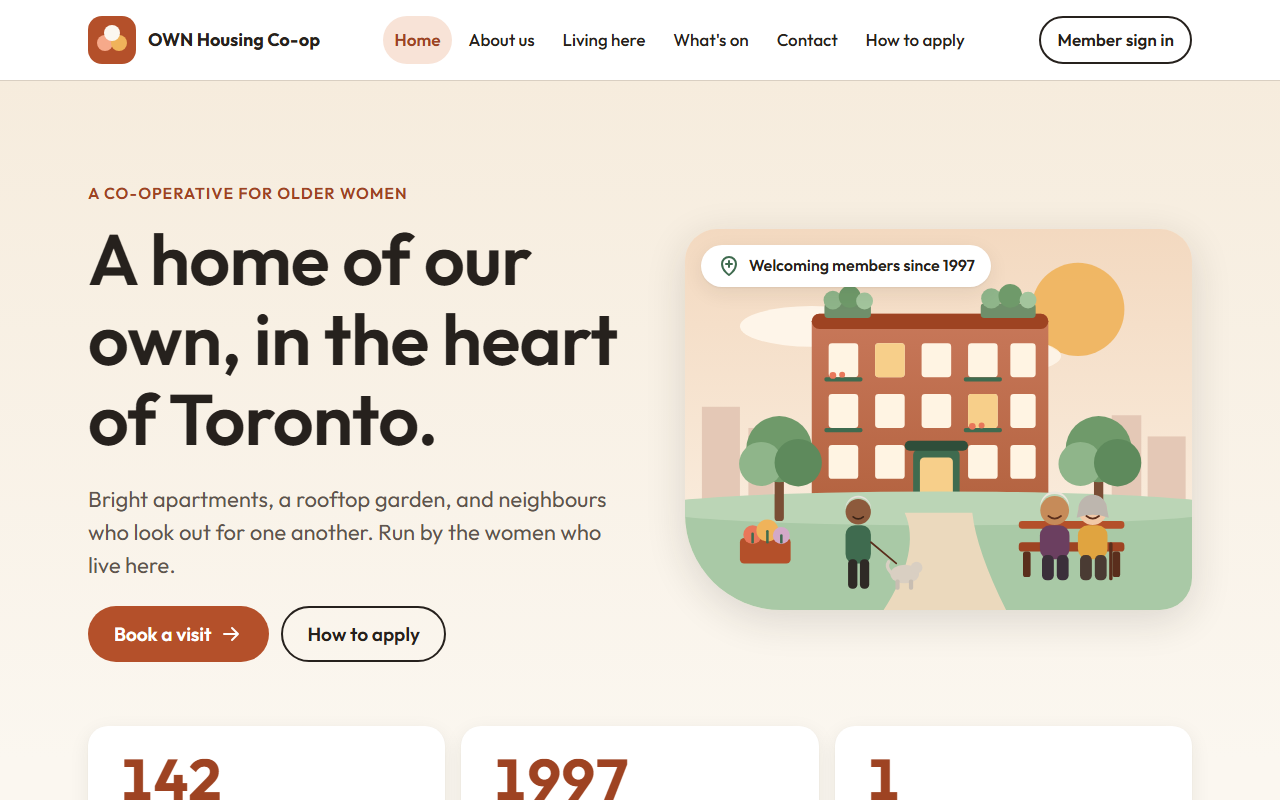
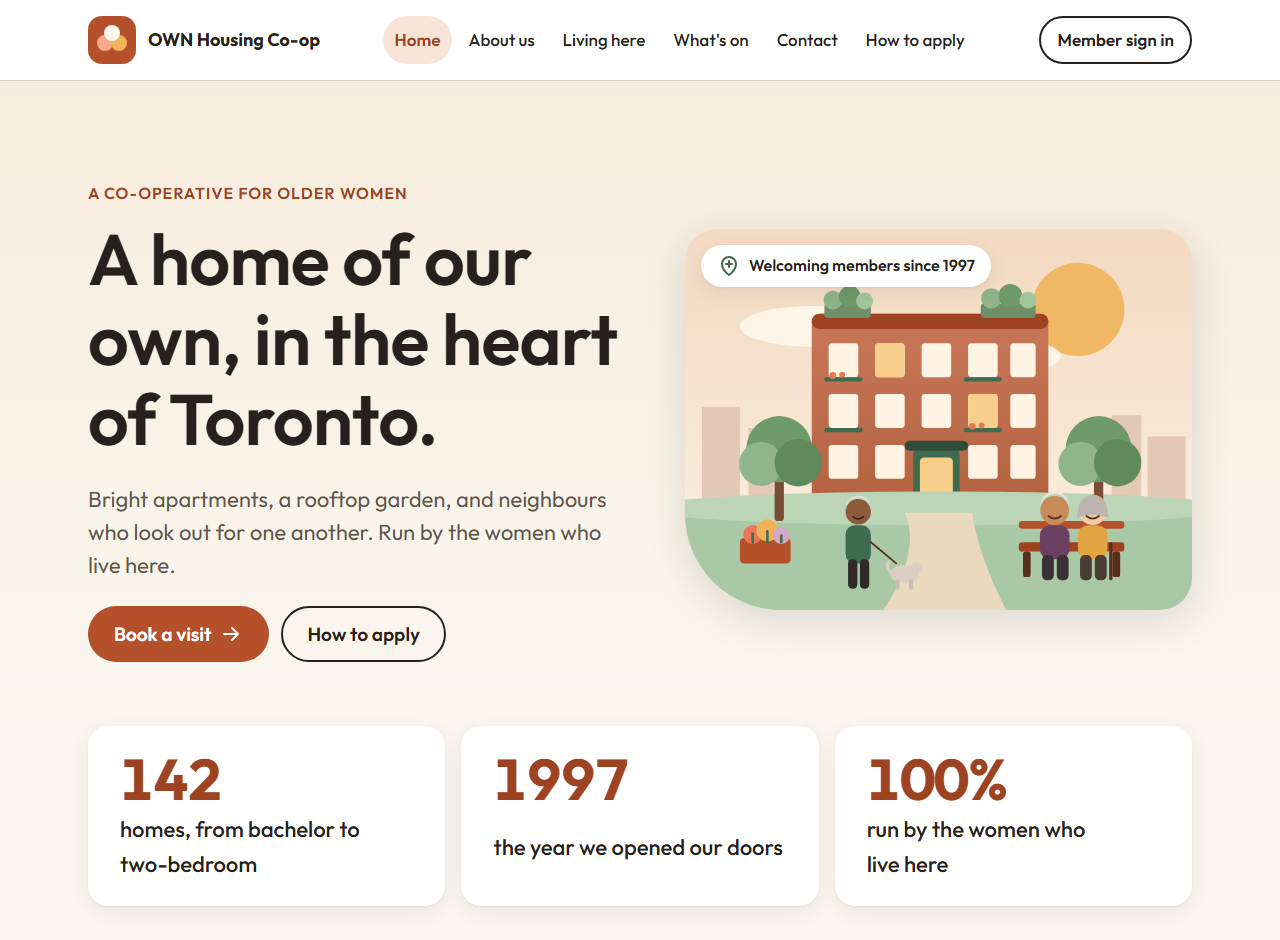
Frame the home page stills so the stat cards show whole
Let capture-mocks.py take a per-shot height for the computer capture and
capture public-landing at 1280x940 so the header, hero and full stat
cards with labels fit.

diff --git a/tools/video-build/capture-mocks.py b/tools/video-build/capture-mocks.py
@@ -2,7 +2,8 @@
 
 Usage: python tools/video-build/capture-mocks.py docs/videos/01-own-board-overview
 
-Writes <name>-1280.png (1280x800 viewport) and, when "phone" is true,
+Writes <name>-1280.png (1280x800 viewport, or 1280x<height> when the shot
+sets "height") and, when "phone" is true,
 <name>-360.png (360x800 viewport) next to shots.json. The review chrome is
 hidden with ?chrome=0. Needs: python -m pip install playwright, and
 python -m playwright install chromium.
@@ -33,6 +34,9 @@ def main() -> int:
                 return 1
             for label in ("1280", "360") if shot.get("phone") else ("1280",):
                 w, h = sizes[label]
+                if label == "1280" and shot.get("height"):
+                    # A taller computer frame, so a whole block fits below the header.
+                    h = int(shot["height"])
                 page = browser.new_page(
                     viewport={"width": w, "height": h}, reduced_motion="reduce"
                 )
